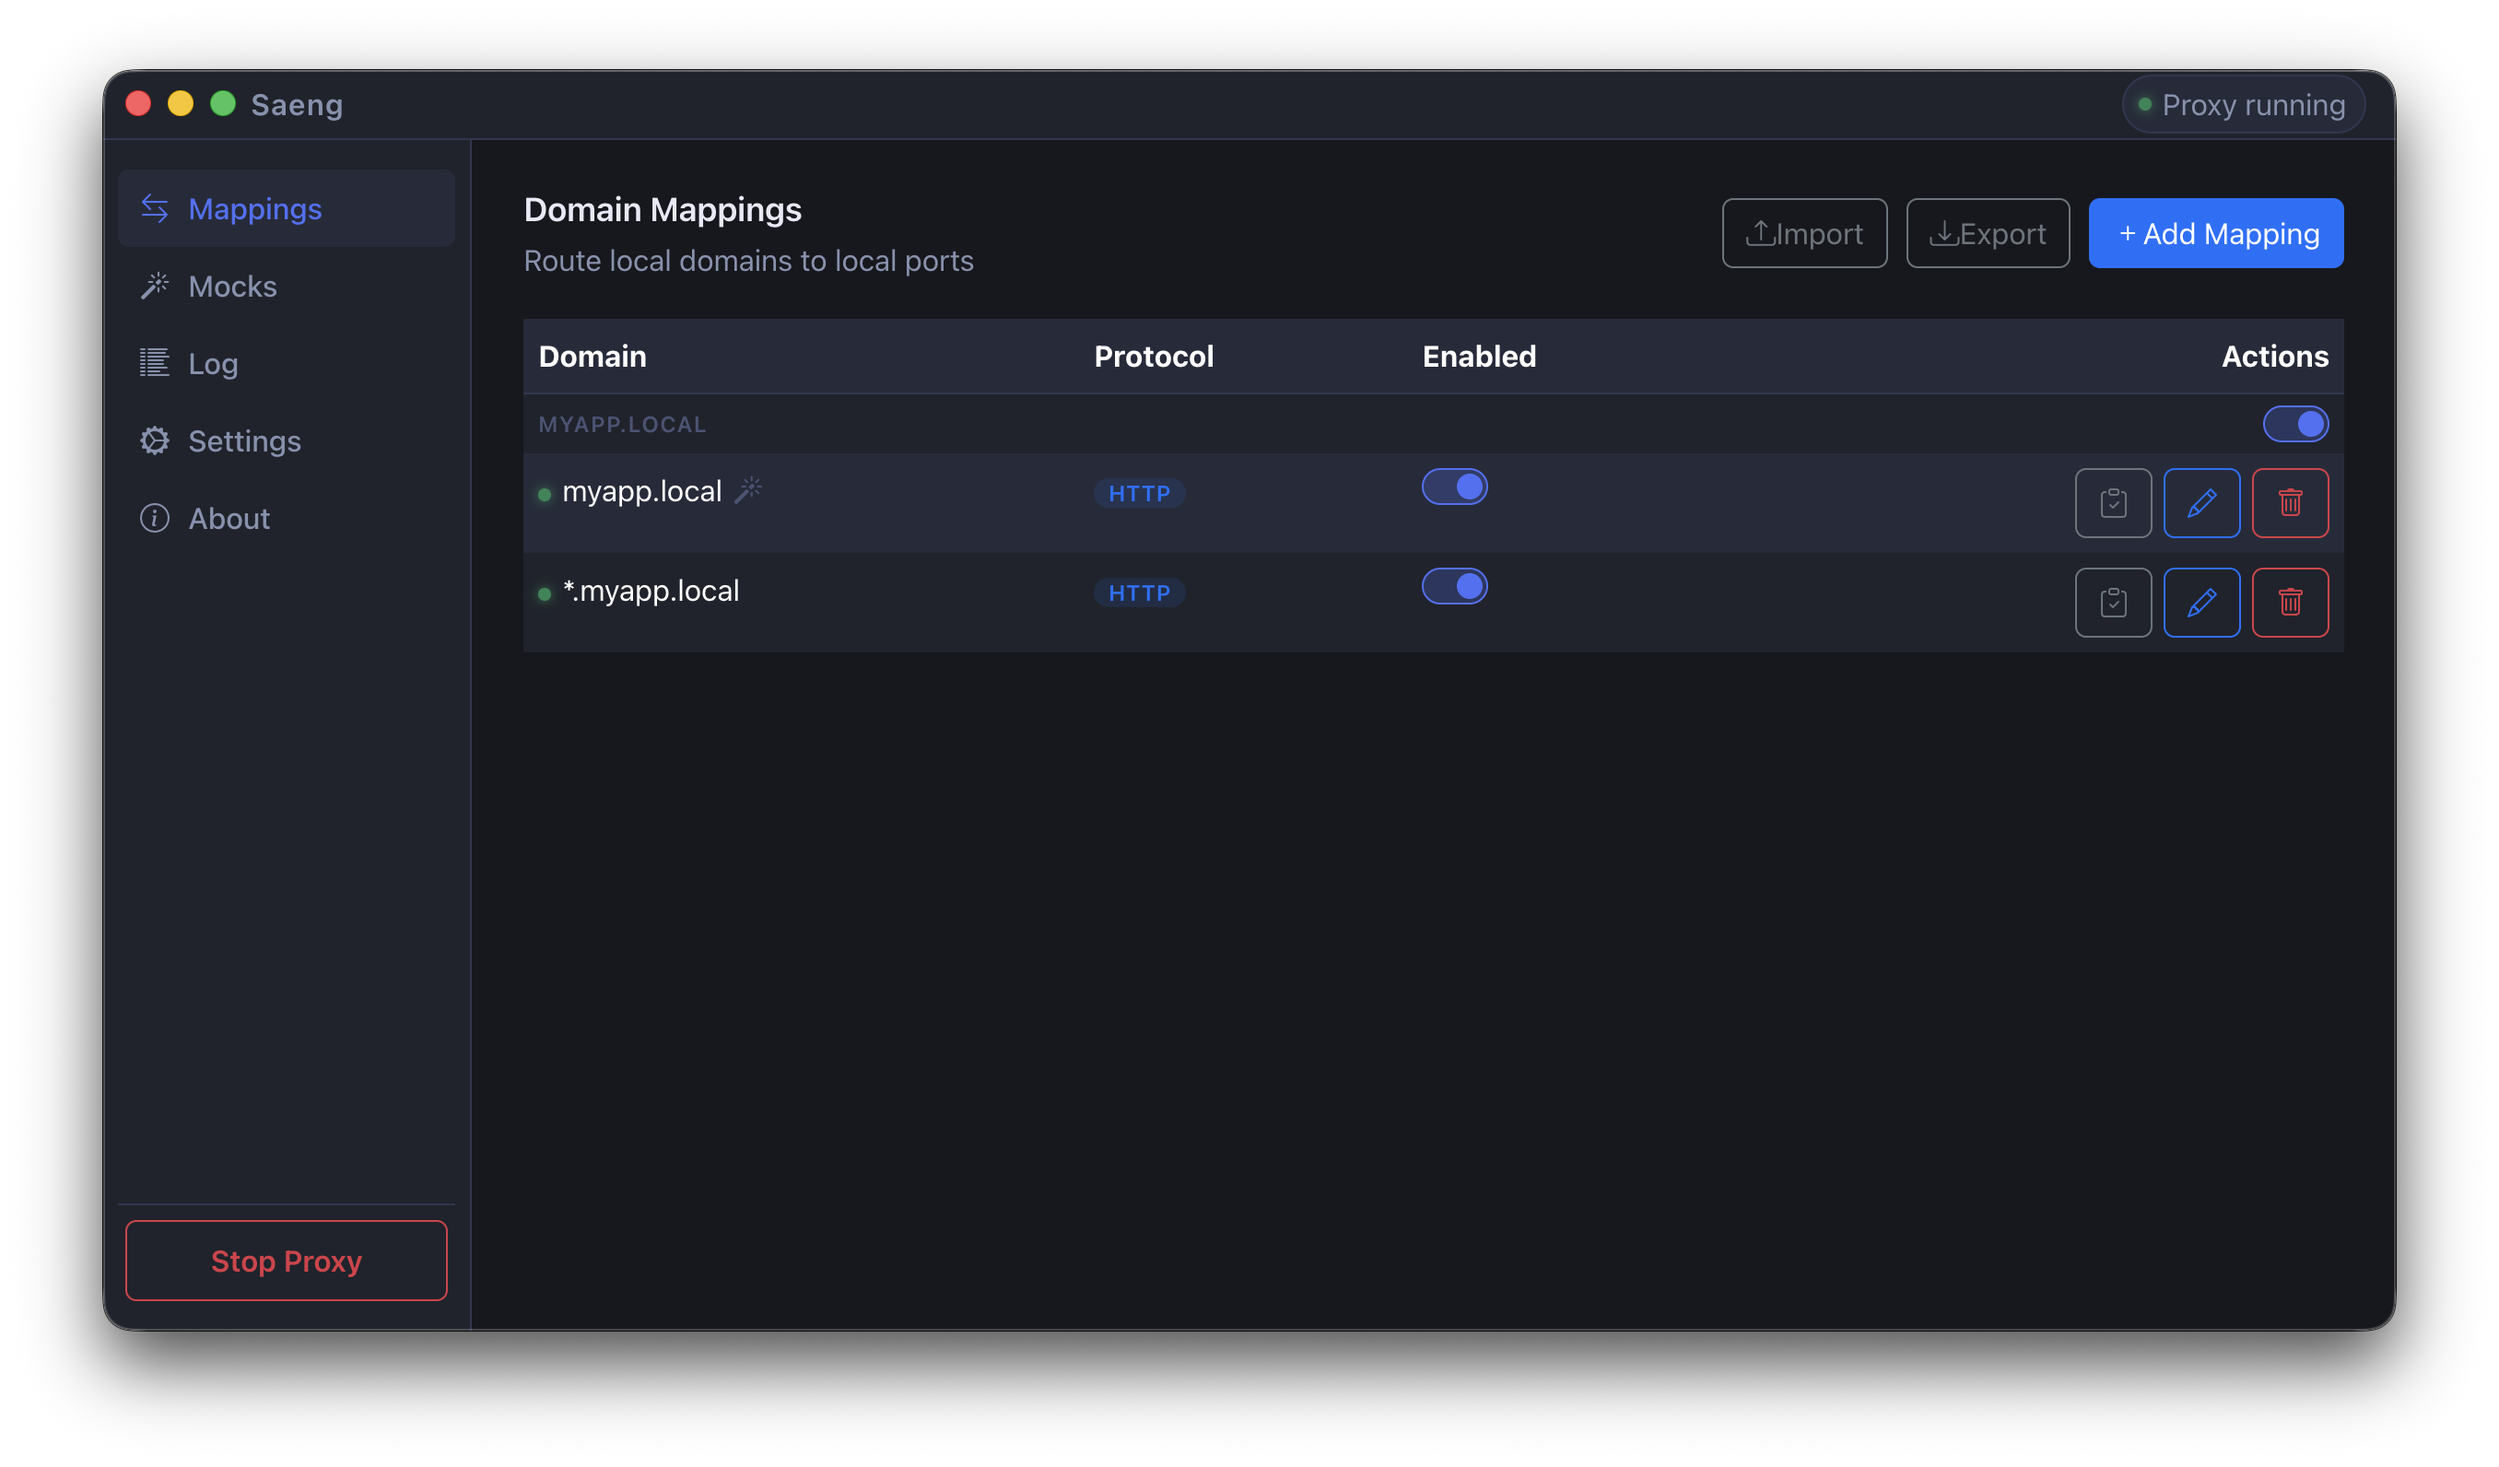
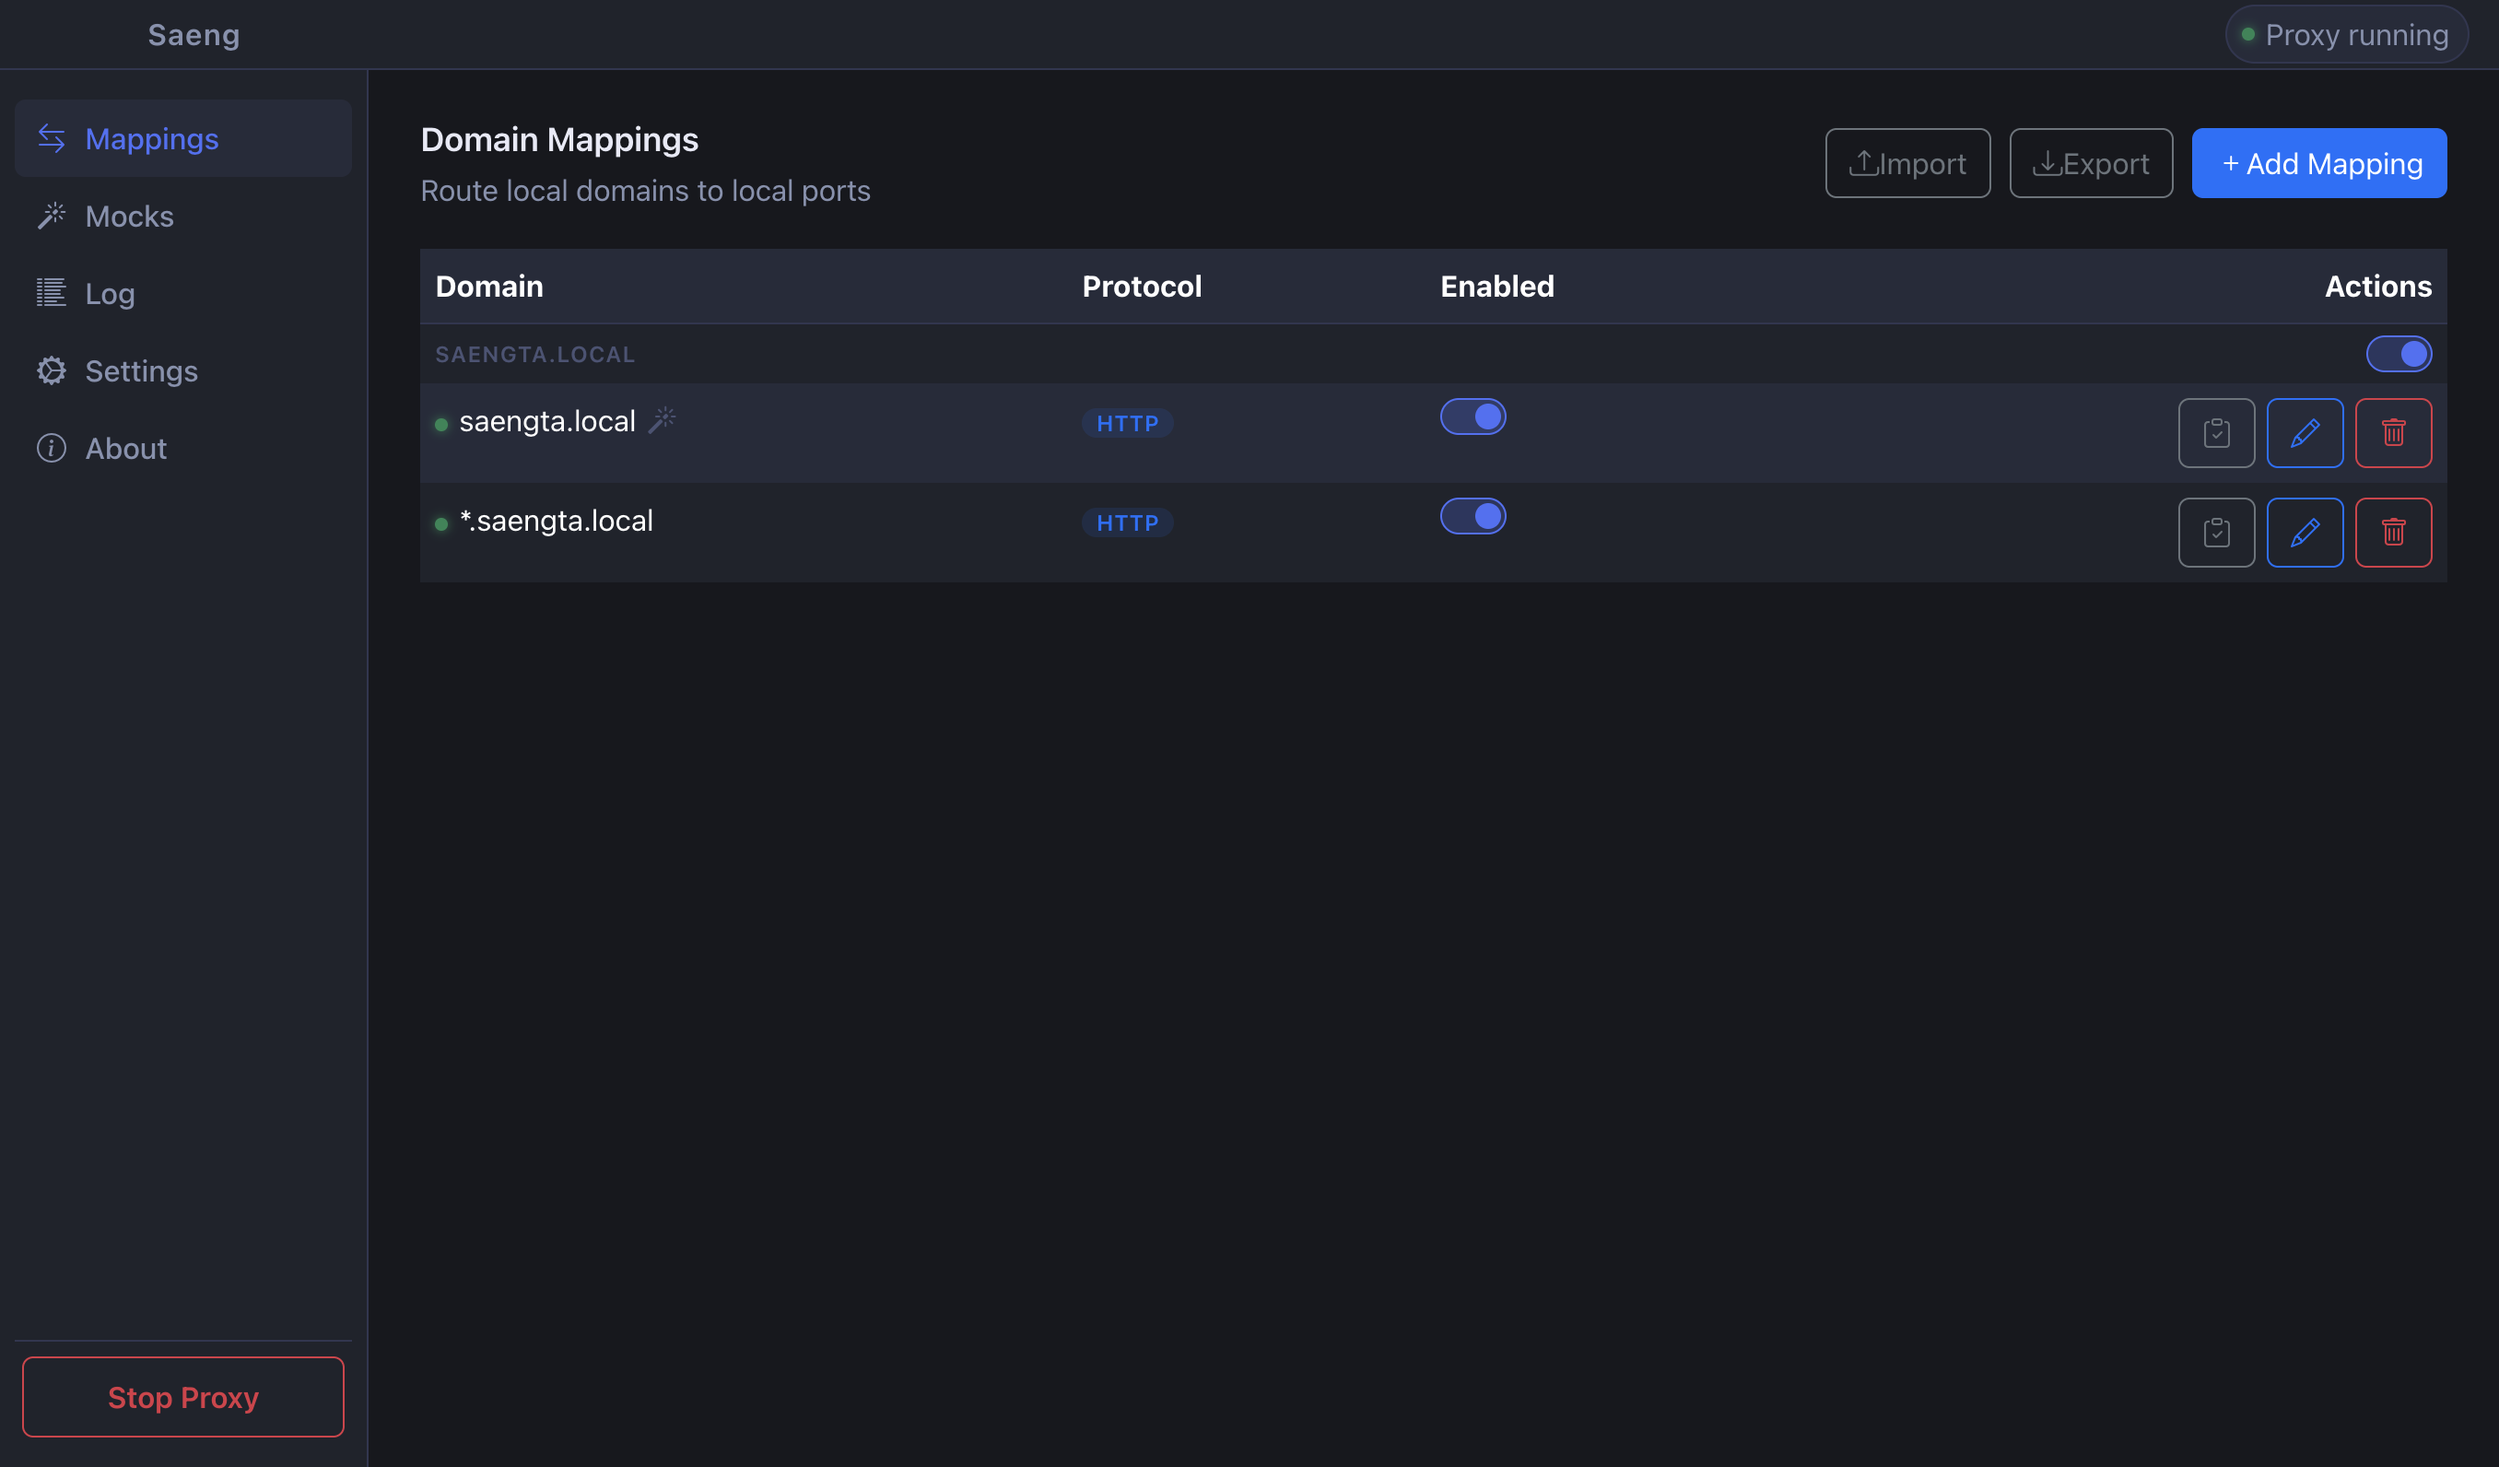
Update screenshots

diff --git a/README.md b/README.md
@@ -10,6 +10,8 @@ Saeng means "light," "radiance," or "glow" in Thai.
 
 ![Saeng Mappings](./screenshot-mappings.png "Saeng Mappings")
 ![Saeng Mocks](./screenshot-mocks.png "Saeng Mocks")
+![Saeng Log](./screenshot-log.png "Saeng Log")
+![Saeng Settings](./screenshot-settings.png "Saeng Settings")
 
 ## Features
 
